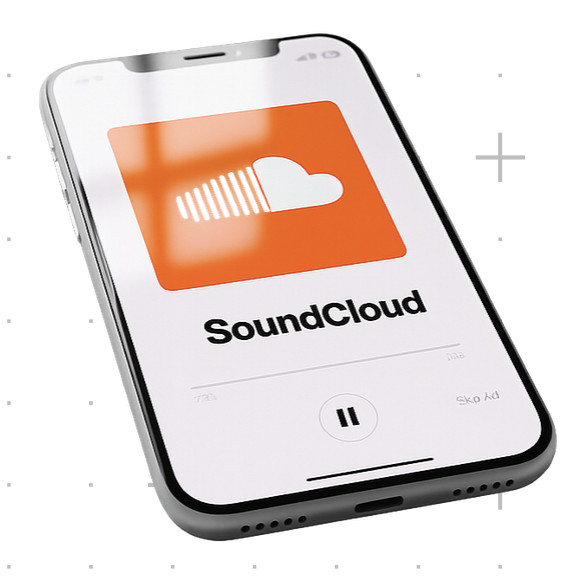
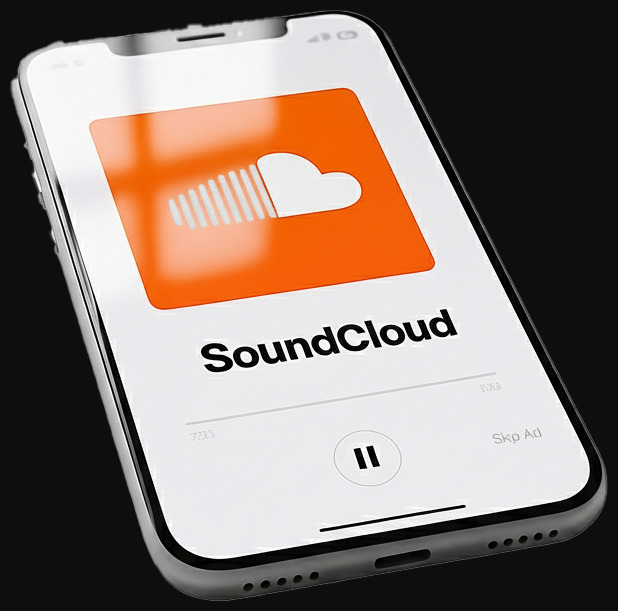
Blend the SoundCloud artboards into the sections they sit on
Every deck screenshot carried a white artboard and its registration marks.
Each image now keys that ground to the background it actually sits on:
the billboards, chart, social cuts and audio spot to the dark band's
#0E0E0E, the arcade, press and hero poster to the page paper. Verified
the border median on all six dark ones is exactly (14,14,14).

The ground is found structurally, as white regions reaching the frame
edge, so nothing of a similar colour inside the artwork is touched. The
mask is dilated a pixel before filling, otherwise the anti-aliased white
fringe survives as a halo once the ground flips to black.

The audio spot came from a real transparent source rather than being
keyed, so it is composited instead.

Cropping the dead margin changed most dimensions, so the width and height
attributes and the figure--two caps are updated with them; each pair is
capped to twice its smaller source, since both columns share a width.

Claude-Session: https://claude.ai/code/session_01JEuyM9BFofSz7ud4NwGMZi

diff --git a/project-soundcloud.html b/project-soundcloud.html
@@ -45,8 +45,8 @@
 </section>
 
 <div class="wrap">
-  <figure class="figure film--hero" data-reveal style="max-width:min(900px,100%);margin-inline:auto">
-    <img width="900" height="949" src="assets/soundcloud/ar-poster.jpg"
+  <figure class="figure film--hero" data-reveal style="max-width:min(843px,100%);margin-inline:auto">
+    <img width="843" height="942" src="assets/soundcloud/ar-poster.jpg"
          alt="Pasted SoundCloud poster being scanned, launching an AR player" loading="eager" data-mask>
     <figcaption class="meta">Paste it up, scan it, and the artist is playing before you have walked past.</figcaption>
   </figure>
@@ -110,10 +110,10 @@
       <figcaption class="meta">Wall and floor. The same artist, the same code.</figcaption>
     </figure>
 
-    <figure class="figure figure--two" data-reveal style="max-width:min(1416px,100%);margin-inline:auto;margin-bottom:0">
-      <img width="1000" height="848" src="assets/soundcloud/billboard-neon.jpg"
+    <figure class="figure figure--two" data-reveal style="max-width:min(1250px,100%);margin-inline:auto;margin-bottom:0">
+      <img width="944" height="835" src="assets/soundcloud/billboard-neon.jpg"
            alt="Billboard for Liam Blackwood reading Overlooked No More" loading="lazy" data-mask>
-      <img width="694" height="1134" src="assets/soundcloud/chart.jpg"
+      <img width="611" height="1084" src="assets/soundcloud/chart.jpg"
            alt="Vertical screen listing the top overlooked artists" loading="lazy" data-mask>
       <figcaption class="meta">A named artist, and a chart of the ones the algorithm missed.</figcaption>
     </figure>
@@ -130,7 +130,7 @@
   </div>
 
   <figure class="figure figure--inset" data-reveal style="max-width:min(520px,100%)">
-    <img width="778" height="1104" src="assets/soundcloud/arcade.jpg"
+    <img width="722" height="1050" src="assets/soundcloud/arcade.jpg"
          alt="Arcade-style step pad reading Step to Amplify Underground Artists" loading="lazy" data-mask>
     <figcaption class="meta">Step to amplify underground artists.</figcaption>
   </figure>
@@ -145,9 +145,9 @@
   </div>
 
   <figure class="figure figure--two figure--inset" data-reveal>
-    <img width="898" height="1092" src="assets/soundcloud/print-flat.jpg"
+    <img width="816" height="1051" src="assets/soundcloud/print-flat.jpg"
          alt="Full page press advertisement" loading="lazy" data-mask>
-    <img width="906" height="766" src="assets/soundcloud/print-spread.jpg"
+    <img width="796" height="666" src="assets/soundcloud/print-spread.jpg"
          alt="The press advertisement running in a magazine" loading="lazy" data-mask>
     <figcaption class="meta">The page, and the page in the wild.</figcaption>
   </figure>
@@ -164,10 +164,10 @@
       serving it, in the gap between two songs an algorithm chose for you.</p>
     </div>
 
-    <figure class="figure figure--two" data-reveal style="margin-bottom:0">
-      <img width="570" height="580" src="assets/soundcloud/audio-ad.jpg"
+    <figure class="figure figure--two" data-reveal style="max-width:min(1264px,100%);margin-inline:auto;margin-bottom:0">
+      <img width="618" height="611" src="assets/soundcloud/audio-ad.jpg"
            alt="SoundCloud audio advertisement playing, with a skip button" loading="lazy" data-mask>
-      <img width="1400" height="697" src="assets/soundcloud/social.jpg"
+      <img width="1366" height="685" src="assets/soundcloud/social.jpg"
            alt="Three short form social videos of an artist recording" loading="lazy" data-mask>
       <figcaption class="meta">The spot, and the social cuts: first takes through to final mix.</figcaption>
     </figure>
